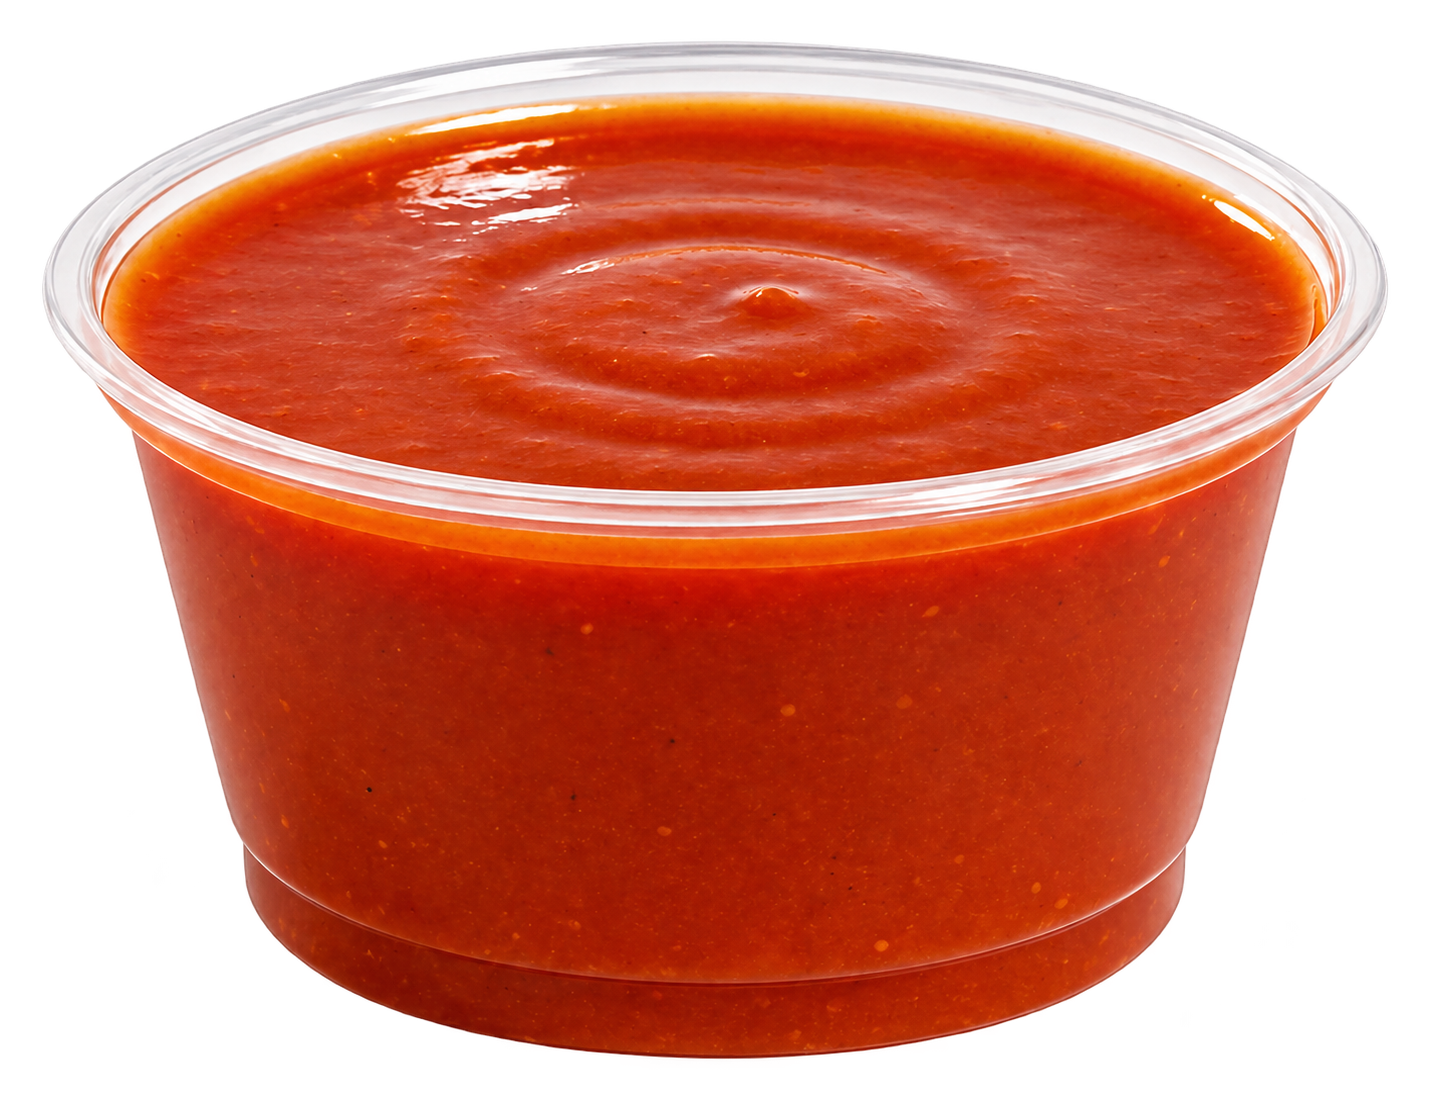
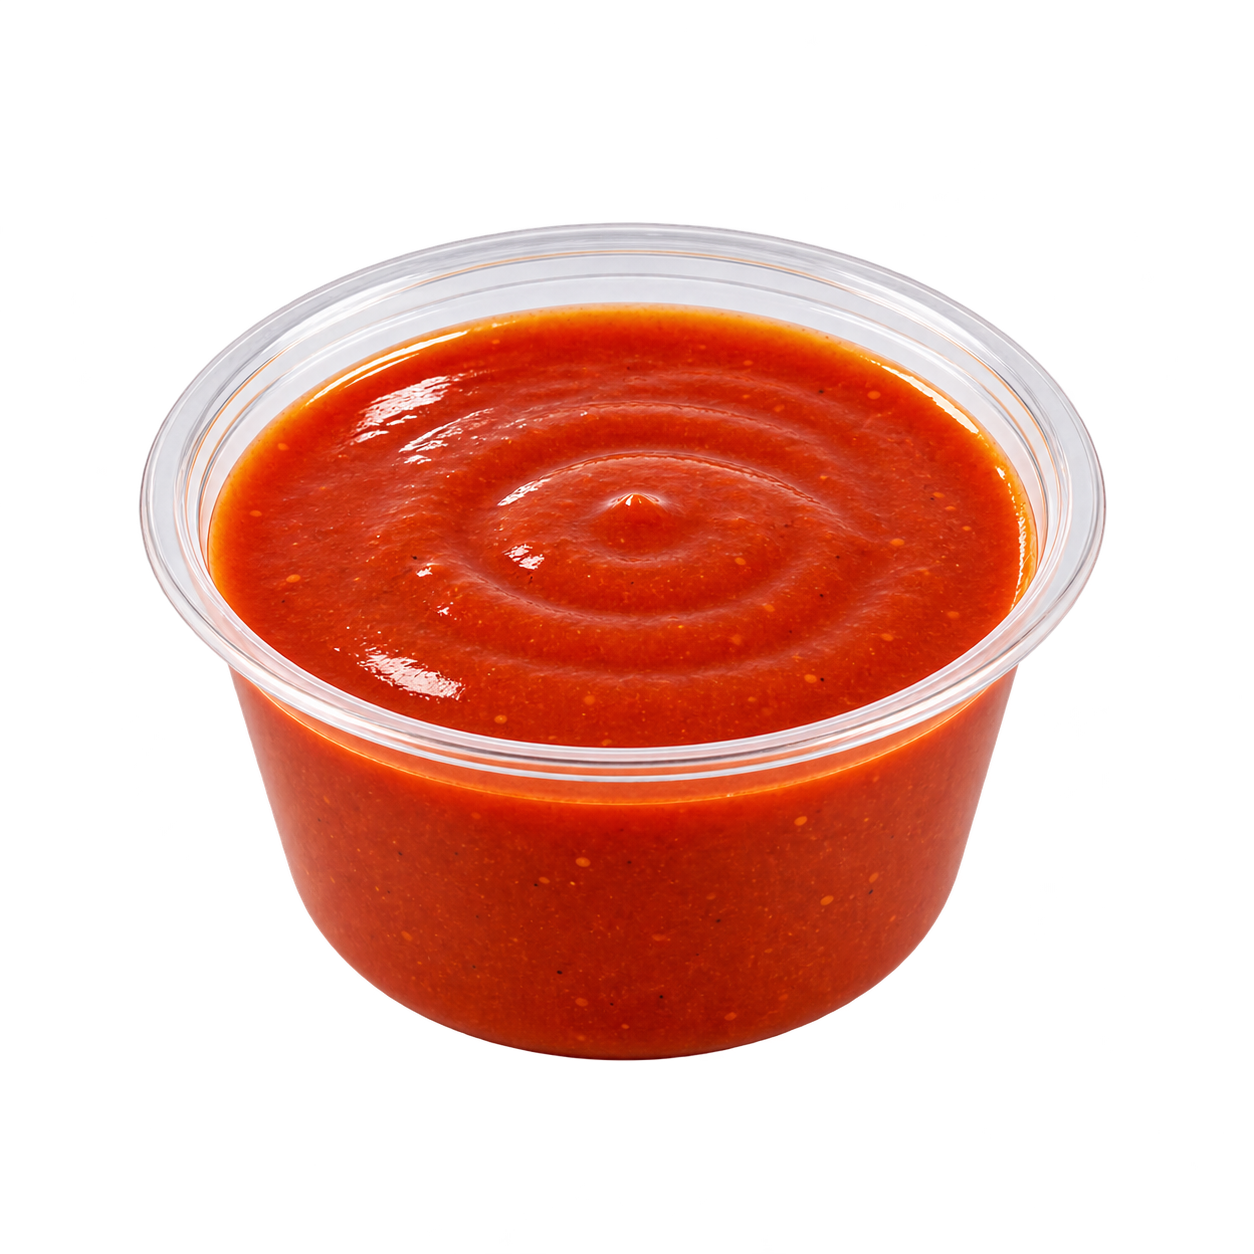
fix(kiosk): align hot sauce photo with other portion cups

diff --git a/apps/kiosk/assets/v3/hd/README.md b/apps/kiosk/assets/v3/hd/README.md
@@ -8,8 +8,10 @@ from the card illustration; there is no multiply blend through opaque product pi
 the selected existing catalog size; no prices, nutrition or catalog entries were changed.
 `heinz-cheese.png` and `heinz-bbq.png` are portion illustrations based on that cup with the
 respective sauce contents. They do not claim to photograph Heinz retail packaging.
+`sauce-hot.png` matches the same elevated three-quarter camera angle and cup framing,
+as requested by the owner. Its spicy red-orange contents are preserved.
 
 Sources, pixel dimensions and SHA-256 values are in `provenance.json`. Outputs have at least
-1280 pixels on their long side. Existing owner-supplied bottled-drink photographs remain in
+1200 pixels on their long side. Existing owner-supplied bottled-drink photographs remain in
 `../../drinks`. No artificial HD claim is made for arbitrary future
 remote catalog assets. Card background geometry lives in `../bg/*.svg` for resolution-independent rendering.
